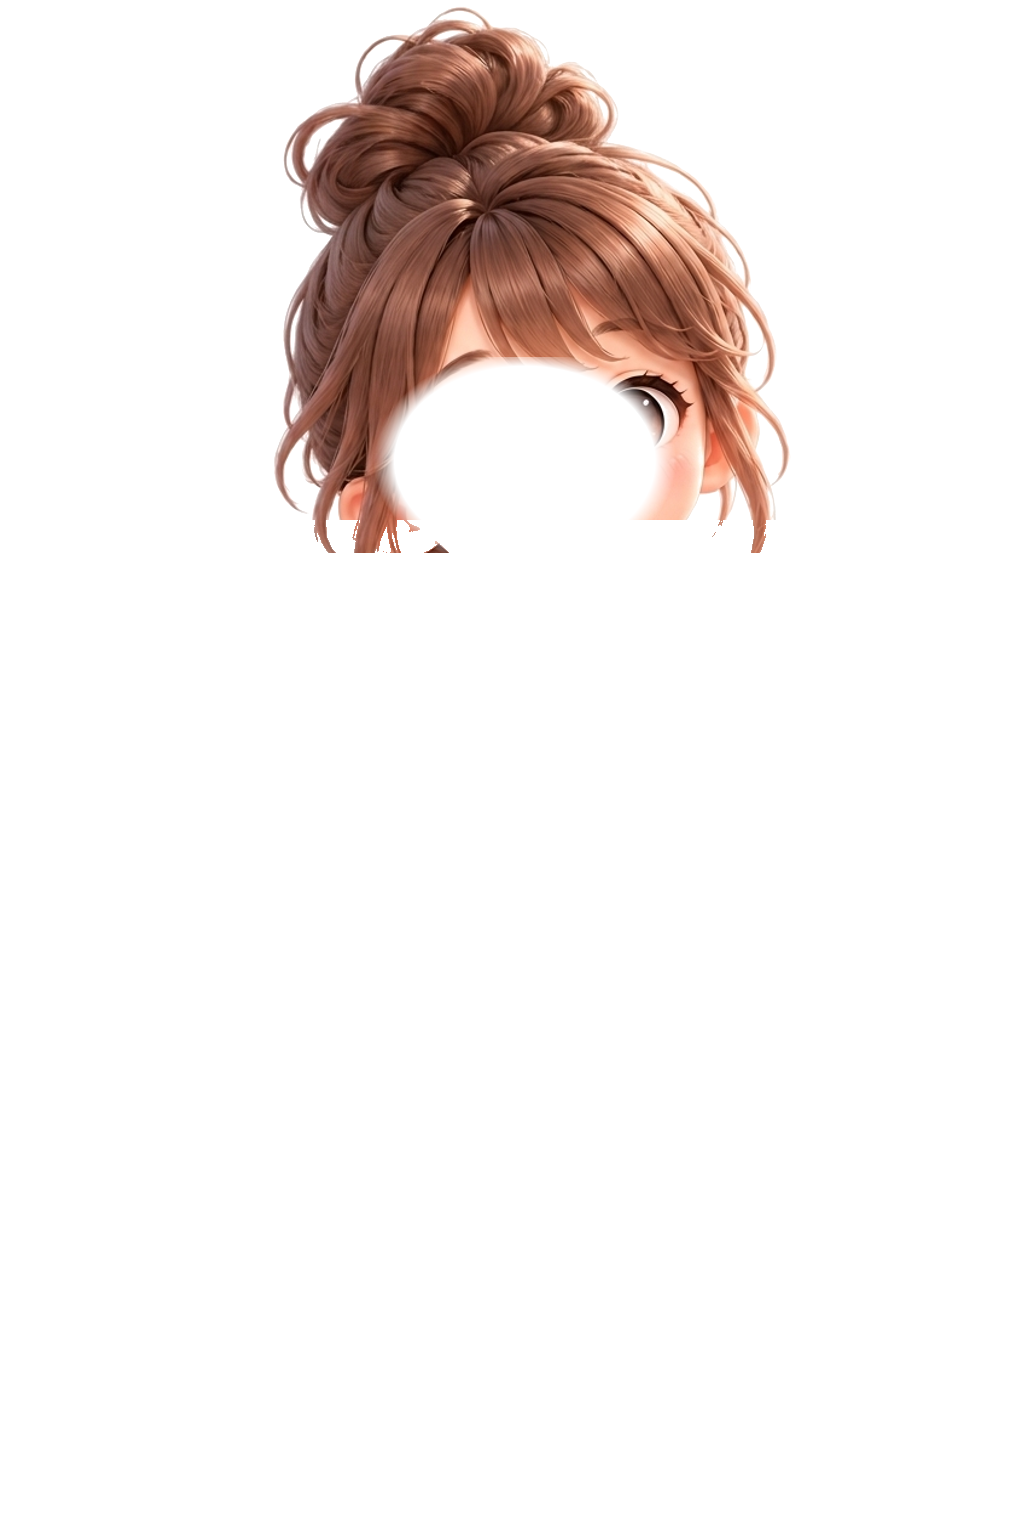
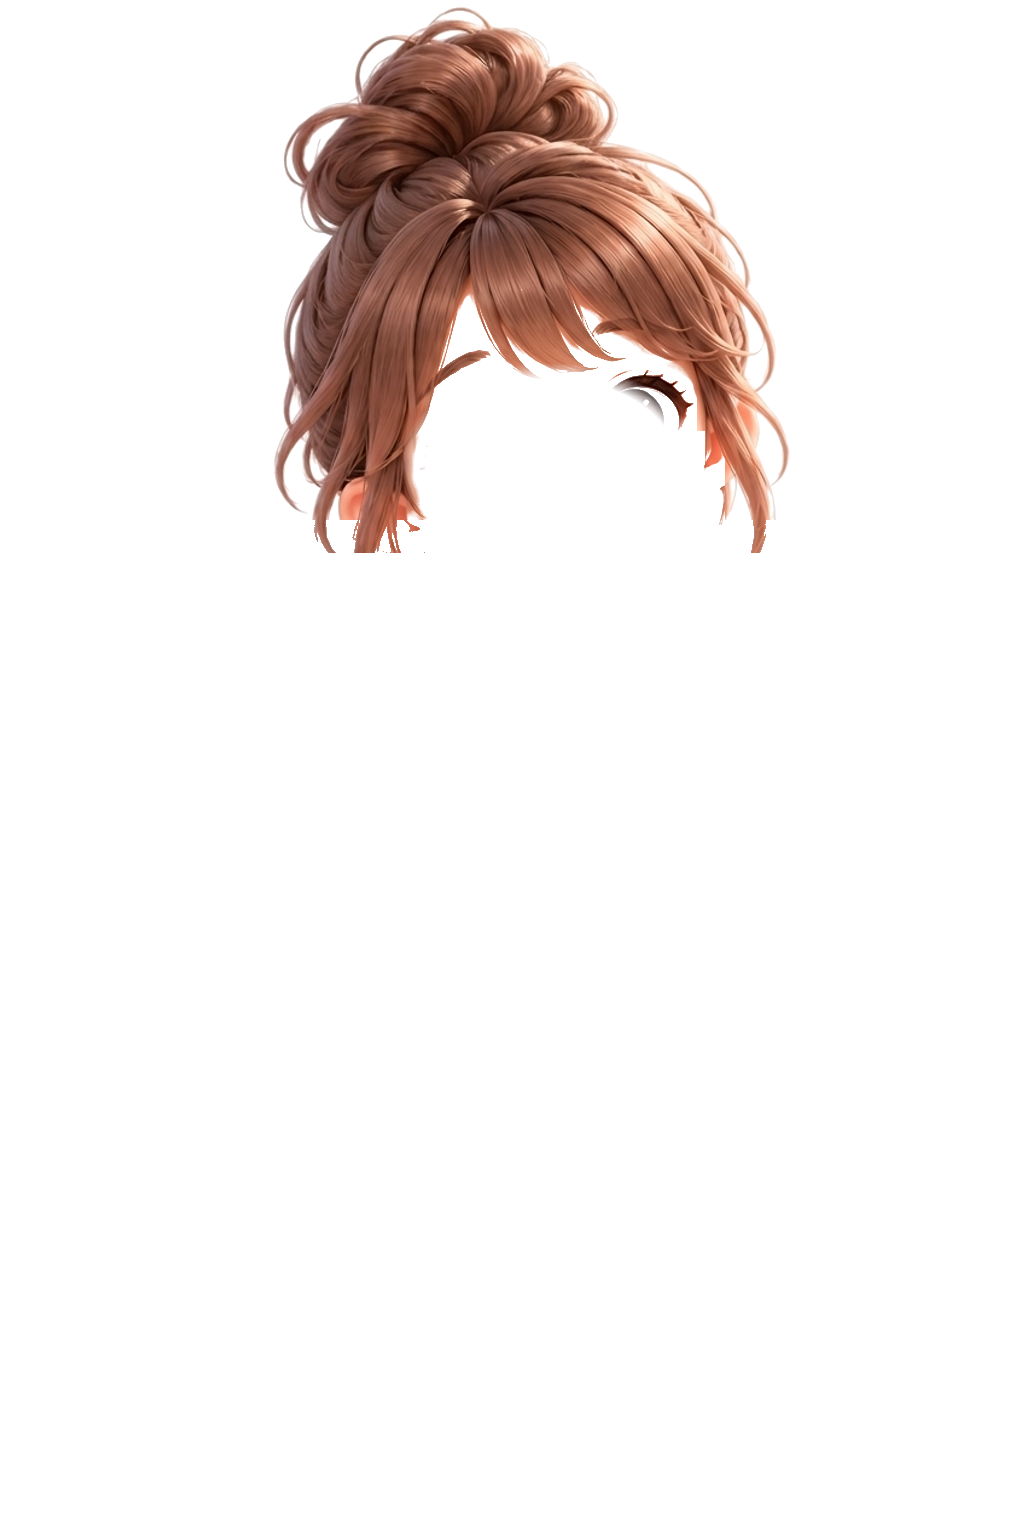
fix(character): eliminate forehead/ear hair-color artifacts, preserve mitten cuffs, and fix boot tinting

Changed region(s): [[0.3438, 0.1875, 0.7188, 0.3438]]

diff --git a/components/child/KanohaCharacter.tsx b/components/child/KanohaCharacter.tsx
@@ -17,7 +17,6 @@ import {
   BearPochette,
   AngelWings,
   HairstyleExtension,
-  HAIR_COLOR_FILTERS,
 } from "./CharacterAccessories";
 
 type Mood = "happy" | "think" | "celebrate";
@@ -45,20 +44,20 @@ const SPRITES = {
   glovesGold: "/images/character/kanoha-ref-gloves-gold.png",
 } as const;
 
-// 前髪・こめかみ領域のみを精密にカバーし、襟元(y>=34.5%)・頭頂部リボン・顔の目口肌を完全に除外するポリゴン
-const BANGS_HAIR_CLIP =
-  "polygon(31.5% 21%, 35% 20.5%, 38% 17%, 44% 15.5%, 58% 15.5%, 65% 17%, 68.5% 21%, 71% 22%, 71% 34.5%, 66% 34.5%, 66% 25%, 40% 25%, 40% 34.5%, 31.5% 34.5%)";
-
-// 手袋領域のみを厳密に切り出し（上端 y=0% の透明領域を経由することで服・袖・リュック・スカートを一切含めない）
+// 手袋領域のみを厳密に切り出し（上端 y=0% の透明領域を経由し、両手首のもこもこボアカフスを100%保持しつつ茶髪の毛先や胴体を除外）
 const GLOVES_CLIP =
-  "polygon(18% 0%, 18% 36.5%, 37.5% 36.5%, 37.5% 48%, 33% 50.5%, 18% 50.5%, 18% 0%, 74% 0%, 74% 58%, 89% 58%, 89% 67%, 74% 67%, 74% 0%)";
+  "polygon(18% 0%, 18% 36%, 32% 36%, 35% 39.5%, 41.5% 39.8%, 41.5% 49%, 33% 50.5%, 18% 50.5%, 18% 0%, 69.5% 0%, 69.5% 56%, 89.5% 56%, 89.5% 68%, 69.5% 68%, 69.5% 0%)";
 
-// 膝下の靴下・靴・ブーツ領域（素足の膝 y:74%..78%/84% を除外し、元の靴を100%差し替える）
+// 膝下の靴下・靴・ブーツ領域（左足のふくらはぎを斜めに避けつつ元の靴を100%差し替える）
 const SHOE_REGION_CLIP =
-  "polygon(24% 78%, 46.5% 78%, 46.5% 84%, 76% 84%, 76% 100%, 24% 100%)";
+  "polygon(24% 79.5%, 35% 78%, 49.5% 82.5%, 49.5% 85.5%, 76% 85.5%, 76% 100%, 24% 100%)";
+
+// 靴カラー変更時は白い靴下や素足の肌を変色させず、靴本体のみを着色するポリゴン
+const SHOE_LEATHER_CLIP =
+  "polygon(25% 81%, 35.5% 81%, 45.5% 85.5%, 45.5% 98%, 25% 98%, 25% 81%, 48.5% 88.5%, 65.5% 88%, 73% 99.5%, 48.5% 99.5%, 48.5% 88.5%)";
 
 const SHOES_COLOR_FILTERS: Record<string, string> = {
-  shoes_color_pink: "sepia(0.55) hue-rotate(295deg) saturate(2.6) brightness(1.1)",
+  shoes_color_pink: "none",
   shoes_color_white: "brightness(2.4) contrast(0.9) saturate(0.1)",
   shoes_color_brown: "sepia(0.95) hue-rotate(-25deg) brightness(0.65) contrast(1.2)",
   shoes_color_blue: "hue-rotate(185deg) saturate(2.8) brightness(1.15)",
@@ -100,23 +99,32 @@ function buildBaseClipPath({
 
   const points: string[] = [];
 
-  // 1. 上辺 (x: 0% -> 100%, y <= 34.5%)
+  // 1. 上辺 (x: 0% -> 100%, 元の頭頂部おだんご・ピンクリボン・耳下の茶髪サイドカール先端まで完全にクリップ除去)
   if (clipTopHead) {
     points.push(
       "0% 0%",
       "14% 0%",
-      "14% 34.5%",
-      "31.5% 34.5%",
+      "14% 36.5%",
+      "34% 36.5%",
+      "41.2% 39.0%",
+      "41.2% 35.6%",
+      "38% 35.2%",
+      "38% 33.8%",
+      "33.5% 33.5%",
+      "31.5% 28%",
       "31.5% 22%",
       "35% 20.5%",
       "38% 17.5%",
       "44% 15.5%",
       "58% 15.5%",
       "65% 17.5%",
-      "68.5% 21%",
-      "71% 22.5%",
-      "71% 34.5%",
-      "98% 34.5%",
+      "67.5% 23%",
+      "68% 28%",
+      "70.5% 29%",
+      "70.5% 32.5%",
+      "66.5% 33.8%",
+      "66.5% 38.5%",
+      "98% 38.5%",
       "98% 0%",
       "100% 0%",
     );
@@ -124,27 +132,28 @@ function buildBaseClipPath({
     points.push("0% 0%", "100% 0%");
   }
 
-  // 2. 右辺 (y: 0% -> 100%, 手袋着用時は右側の素手 y:58%..67% を切り抜く)
+  // 2. 右辺 (y: 0% -> 100%, 手袋着用時は右側の素手 y:56%..68% を切り抜く)
   if (clipGloves) {
     points.push(
-      "100% 58%",
-      "74% 58%",
-      "74% 67%",
-      "100% 67%",
+      "100% 56%",
+      "69.5% 56%",
+      "69.5% 68%",
+      "100% 68%",
       "100% 100%",
     );
   } else {
     points.push("100% 100%");
   }
 
-  // 3. 下辺 (x: 100% -> 0%, 靴オーバーレイ時は元の靴 y:78%/84%..100% を切り抜く)
+  // 3. 下辺 (x: 100% -> 0%, 靴オーバーレイ時は元の靴をふくらはぎに沿って切り抜く)
   if (clipShoes) {
     points.push(
       "76% 100%",
-      "76% 84%",
-      "46.5% 84%",
-      "46.5% 78%",
-      "24% 78%",
+      "76% 85.5%",
+      "49.5% 85.5%",
+      "49.5% 82.5%",
+      "35% 78%",
+      "24% 79.5%",
       "24% 100%",
       "0% 100%",
     );
@@ -152,14 +161,16 @@ function buildBaseClipPath({
     points.push("0% 100%");
   }
 
-  // 4. 左辺 (y: 100% -> 0%, 手袋または魔法のステッキ着用時は左側の素手 y:36.5%..50.5% を切り抜く)
+  // 4. 左辺 (y: 100% -> 0%, 手袋または魔法のステッキ着用時は左側の素手を切り抜く)
   if (clipGloves || clipLeftHand) {
     points.push(
       "0% 50.5%",
       "33% 50.5%",
-      "37.5% 48%",
-      "37.5% 36.5%",
-      "0% 36.5%",
+      "41.5% 49%",
+      "41.5% 39.8%",
+      "35% 39.5%",
+      "32% 36%",
+      "0% 36%",
     );
   }
 
@@ -224,7 +235,6 @@ export function KanohaCharacter({ mood = "happy", accessories, onClick }: Kanoha
   // 4. 髪型・髪色レイヤー (Hairstyle & Hair Color)
   const hairStyle = activeAccessories.hairstyle ?? "hair_bun";
   const hairColor = activeAccessories.hair_color ?? "hair_color_brown";
-  const hairFilter = HAIR_COLOR_FILTERS[hairColor] ?? "none";
 
   // 5. 帽子レイヤー (Hat)
   const hatType = activeAccessories.hat ?? "hat_none";
@@ -257,12 +267,7 @@ export function KanohaCharacter({ mood = "happy", accessories, onClick }: Kanoha
   const shoesType = activeAccessories.shoes ?? "shoes_sneaker";
   const shoesColor = activeAccessories.shoes_color ?? "shoes_color_pink";
   const shoesBaseSrc = SHOES_SPRITES[shoesType] ?? SPRITES.happy;
-  const shoesFilter =
-    shoesColor === "shoes_color_pink"
-      ? shoesType === "shoes_sneaker"
-        ? "none"
-        : SHOES_COLOR_FILTERS.shoes_color_pink
-      : (SHOES_COLOR_FILTERS[shoesColor] ?? "none");
+  const shoesFilter = SHOES_COLOR_FILTERS[shoesColor] ?? "none";
 
   const hasExplicitShoes = Boolean(activeAccessories.shoes || activeAccessories.shoes_color);
   const isNativeShoeUncolored =
@@ -328,40 +333,41 @@ export function KanohaCharacter({ mood = "happy", accessories, onClick }: Kanoha
           layer="front"
         />
 
-        {/* レイヤー1d: 地毛の前髪カラーオーバーレイ (襟やリボンを含めず前髪のみを着色) */}
-        {hairFilter !== "none" && (
-          <Image
-            key={`hair-color-${hairColor}-${hairStyle}`}
-            className={styles.hairColorOverlay}
-            src={SPRITES.happy}
-            width={1024}
-            height={1536}
-            alt=""
-            draggable={false}
-            unoptimized
-            style={{
-              clipPath: BANGS_HAIR_CLIP,
-              filter: hairFilter,
-            }}
-          />
-        )}
-
-        {/* レイヤー1e: 靴＆靴色オーバーレイ (元の靴をクリップ除去した上に100%不透明で描画) */}
+        {/* レイヤー1e: 靴＆靴色オーバーレイ (元の靴をクリップ除去した上に100%不透明で描画し、色変更時は靴本体のみ着色) */}
         {showShoesOverlay && (
-          <Image
-            key={`shoes-${shoesType}-${shoesColor}`}
-            className={styles.shoesOverlay}
-            src={shoesBaseSrc}
-            width={1024}
-            height={1536}
-            alt=""
-            draggable={false}
-            unoptimized
-            style={{
-              clipPath: SHOE_REGION_CLIP,
-              filter: shoesFilter !== "none" ? shoesFilter : undefined,
-            }}
-          />
+          <>
+            <Image
+              key={`shoes-${shoesType}-${shoesColor}`}
+              className={styles.shoesOverlay}
+              src={shoesBaseSrc}
+              width={1024}
+              height={1536}
+              alt=""
+              draggable={false}
+              unoptimized
+              style={{
+                clipPath: SHOE_REGION_CLIP,
+              }}
+            />
+            {shoesFilter !== "none" && (
+              <svg
+                viewBox="0 0 1024 1536"
+                className={styles.shoesOverlay}
+                style={{ pointerEvents: "none" }}
+                aria-hidden="true"
+              >
+                <image
+                  href={shoesBaseSrc}
+                  width="1024"
+                  height="1536"
+                  style={{
+                    clipPath: SHOE_LEATHER_CLIP,
+                    filter: shoesFilter,
+                  }}
+                />
+              </svg>
+            )}
+          </>
         )}
 
         {/* レイヤー2: 手袋オーバーレイ (元の素手をクリップ除去した上に両手領域のみを描画) */}

diff --git a/tests/components/KanohaCharacterOverlay.test.tsx b/tests/components/KanohaCharacterOverlay.test.tsx
@@ -85,16 +85,16 @@ describe("KanohaCharacter multi-layer dress-up overlay", () => {
       img.style.clipPath.includes("78%")
     )!;
 
-    // ベース衣装は頭頂部(15.5%)・素手(36.5%/58%)・元の靴(78%/84%)がすべてクリップ除去されていること
+    // ベース衣装は頭頂部(15.5%)・素手(36%/56%)・元の靴(78%/85.5%)がすべてクリップ除去されていること
     expect(baseImg.style.clipPath).toContain("15.5%");
-    expect(baseImg.style.clipPath).toContain("36.5%");
-    expect(baseImg.style.clipPath).toContain("58%");
+    expect(baseImg.style.clipPath).toContain("36%");
+    expect(baseImg.style.clipPath).toContain("56%");
     expect(baseImg.style.clipPath).toContain("78%");
-    expect(baseImg.style.clipPath).toContain("84%");
+    expect(baseImg.style.clipPath).toContain("85.5%");
 
     // 手袋オーバーレイは両手領域のみを切り出し、元のくまパーカー胴体(28%..70%全域)を含まないこと
-    expect(glovesImg.style.clipPath).toContain("18% 36.5%");
-    expect(glovesImg.style.clipPath).toContain("74% 58%");
+    expect(glovesImg.style.clipPath).toContain("18% 36%");
+    expect(glovesImg.style.clipPath).toContain("69.5% 56%");
     expect(glovesImg.style.clipPath).not.toContain("12% 28%");
 
     // 靴オーバーレイはスニーカー(happy)の膝下領域を描画していること

diff --git a/components/child/CharacterAccessories.tsx b/components/child/CharacterAccessories.tsx
@@ -42,7 +42,7 @@ const FULL_STAGE_SVG_STYLE: React.CSSProperties = {
 };
 
 const FRONT_HAIR_CLIP =
-  "polygon(0% 0%, 100% 0%, 100% 39.5%, 63.5% 39.5%, 63.5% 34.2%, 38.5% 34.2%, 38.5% 39.5%, 0% 39.5%)";
+  "polygon(0% 0%, 100% 0%, 100% 39.5%, 63.5% 39.5%, 63.5% 34.2%, 41.2% 34.2%, 41.2% 39.5%, 0% 39.5%)";
 
 export function RibbonBow({ className, style }: { className?: string; style?: React.CSSProperties }) {
   return (
